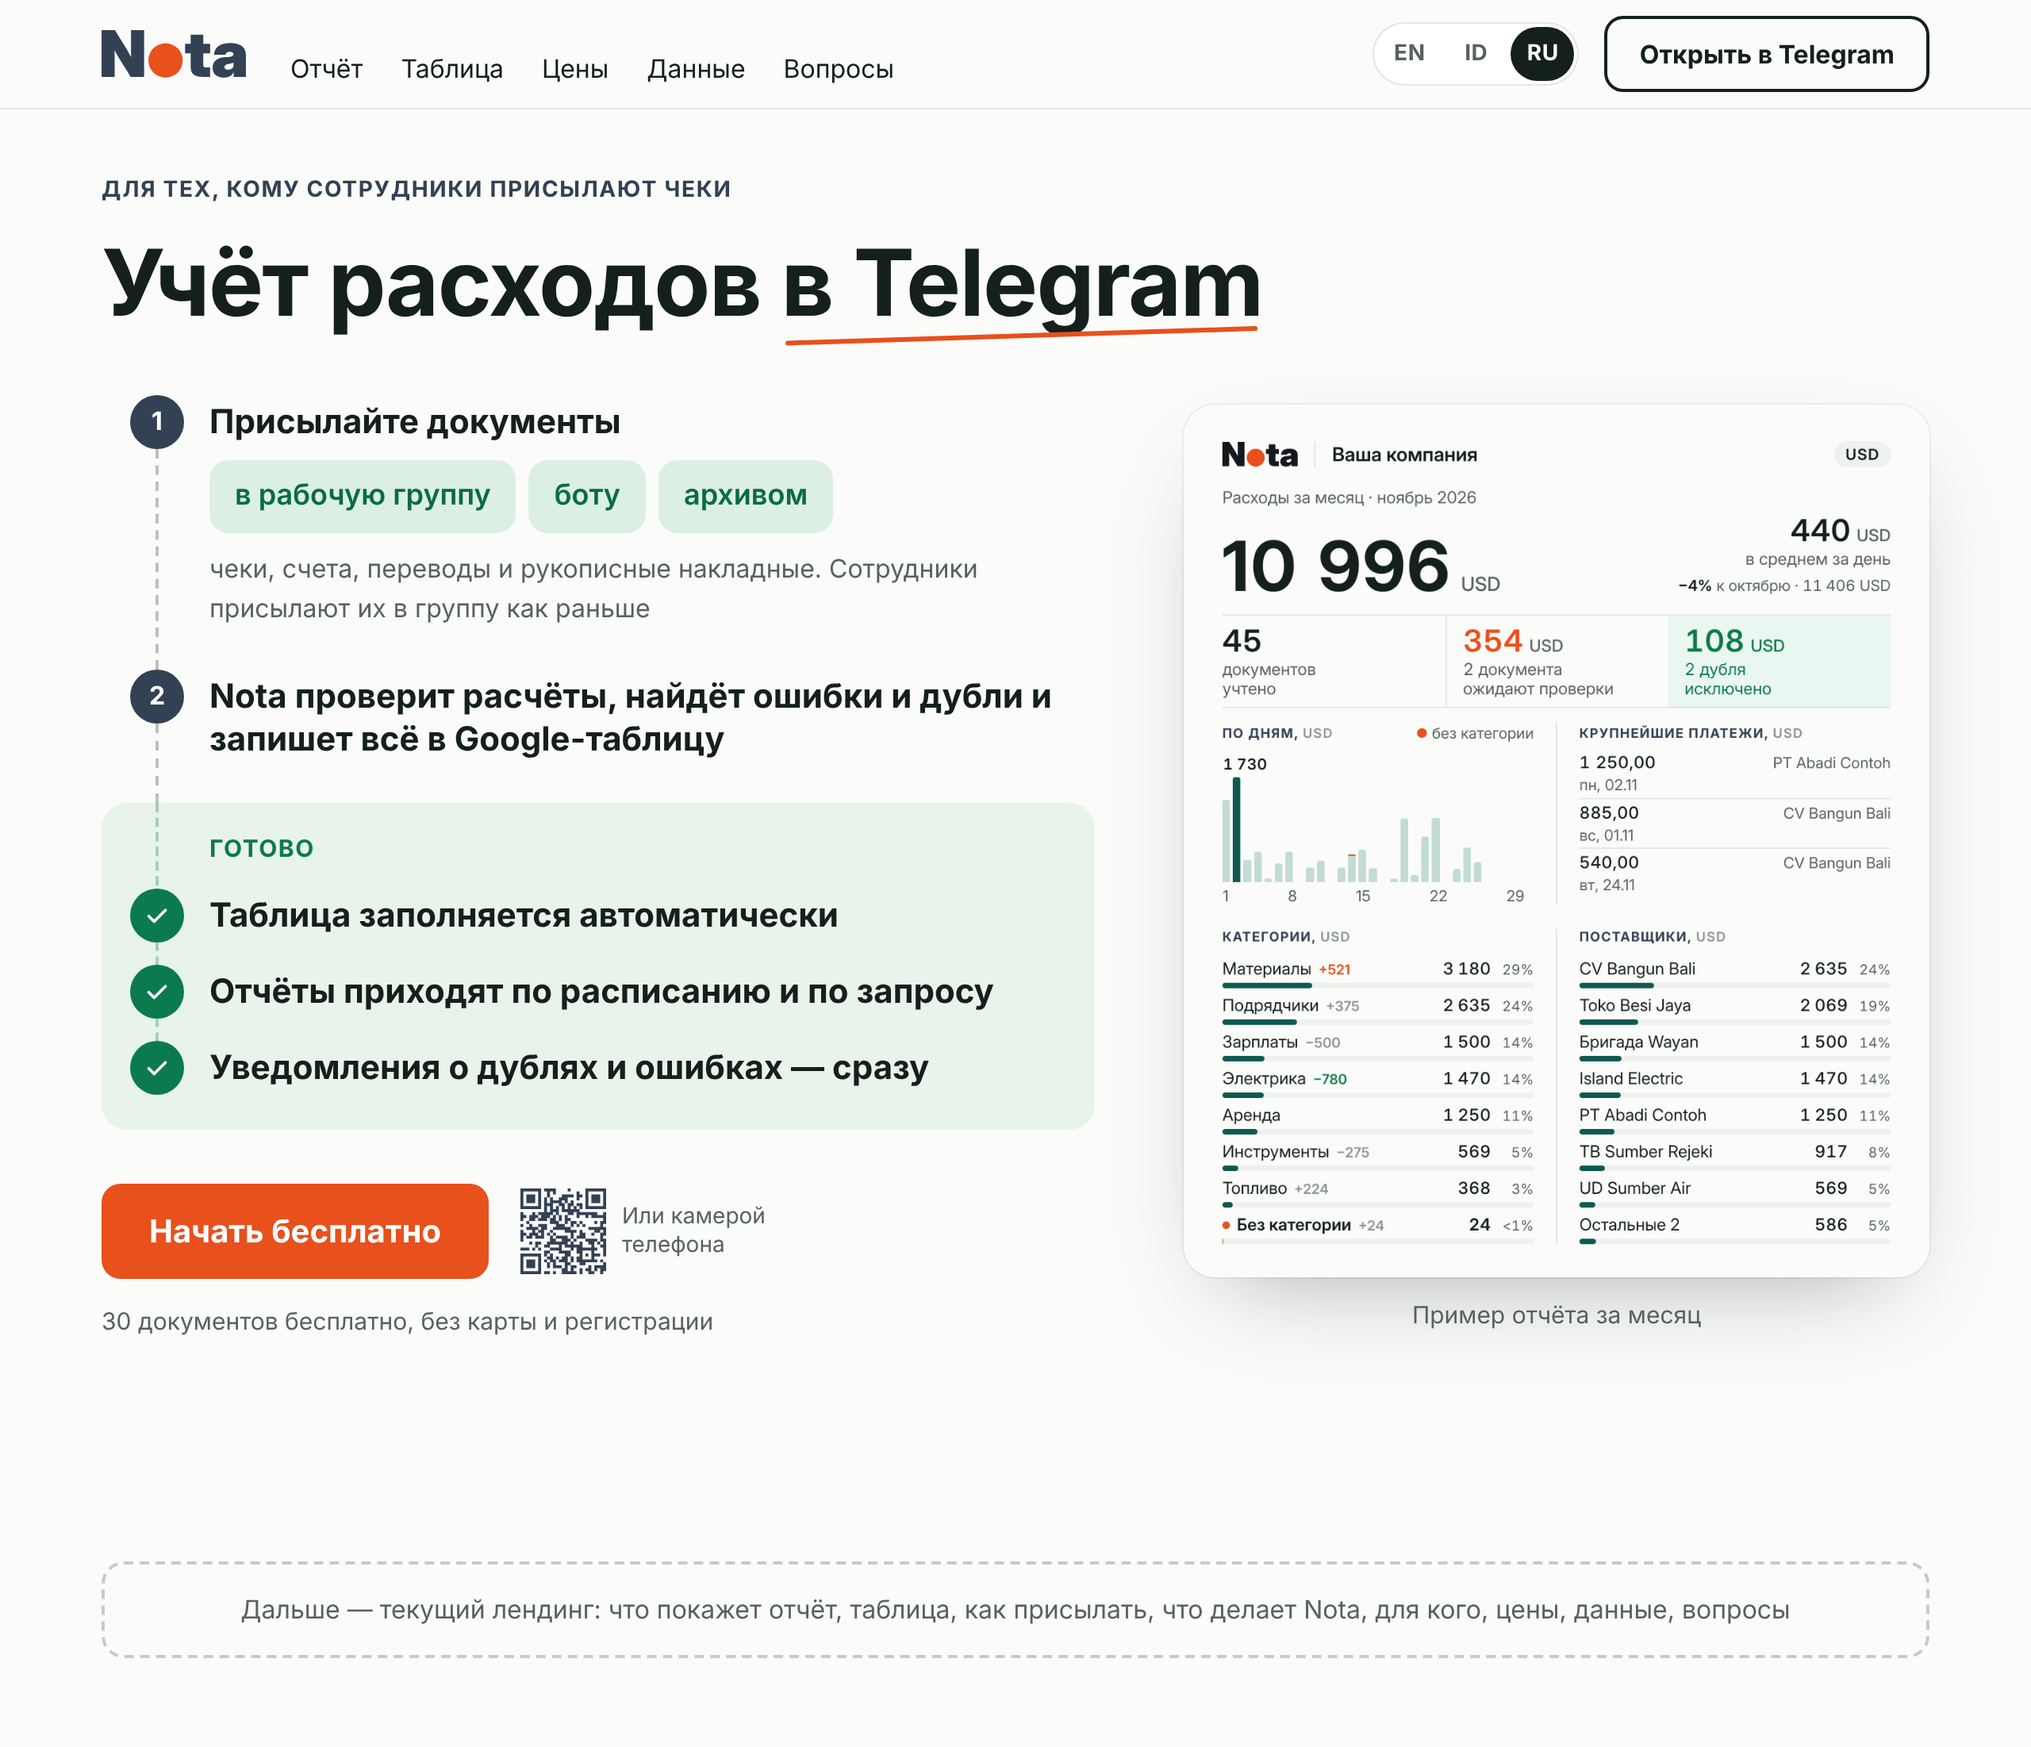
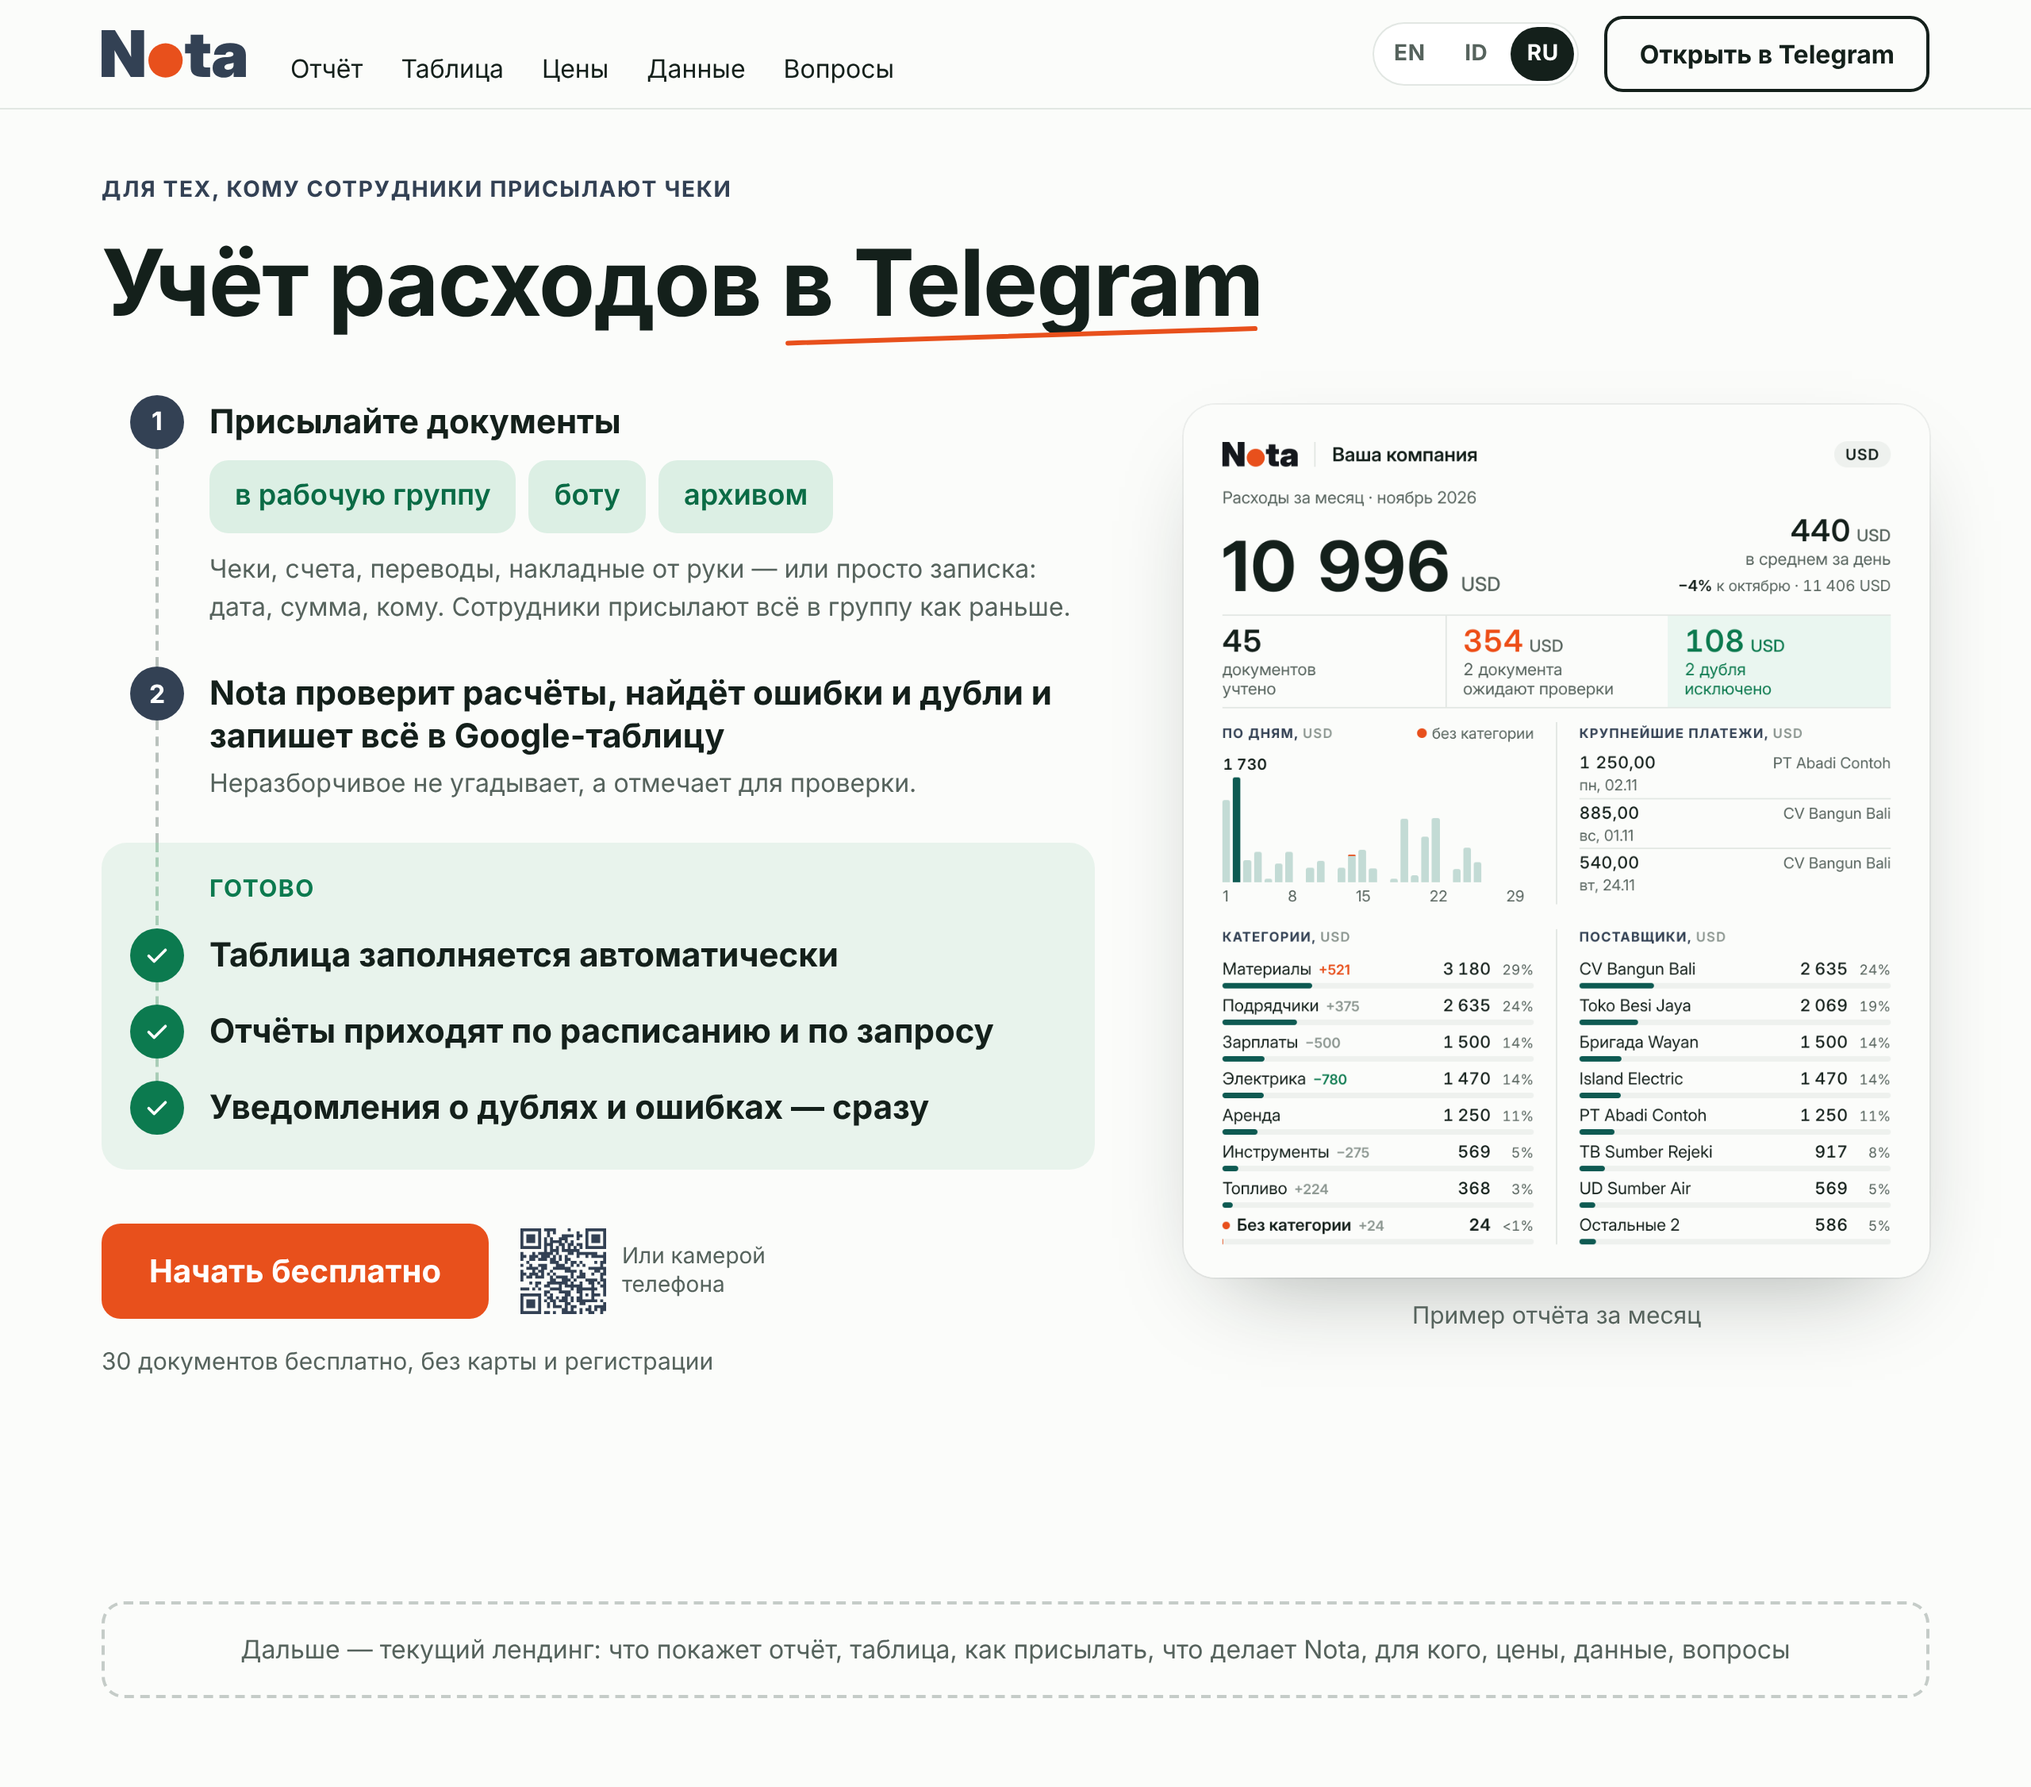
Sketch G: any note works without a receipt; unreadable documents flagged
Claude-Session: https://claude.ai/code/session_01L3HhR7LSGwJtypFbeUeh92

diff --git a/founder/landing-start-sketch/g.html b/founder/landing-start-sketch/g.html
@@ -5,7 +5,7 @@
 <h1 class="f-h1">Учёт расходов <span class="mk-u">в Telegram<svg class="mk-under" viewBox="0 0 200 16" preserveAspectRatio="none" aria-hidden="true"><path d="M3 13C50 11.5 120 8 197 4"/></svg></span></h1>
 <div class="mk-split mk-split--f">
 <div class="mk-left">
-<ol class="f-flow"><li><span class="e-n">1</span><div><b>Присылайте документы</b><span class="f-chips"><i>в рабочую группу</i><i>боту</i><i>архивом</i></span><span class="f-d g-sub">чеки, счета, переводы и рукописные накладные. Сотрудники присылают их в группу как раньше</span></div></li><li><span class="e-n">2</span><div><b>Nota проверит расчёты, найдёт ошибки и дубли и запишет всё в Google-таблицу</b></div></li></ol><div class="f-auto"><div class="f-auto-h">Готово</div><ol class="f-flow"><li><span class="e-n f-ok"><svg viewBox="0 0 24 24" width="18" height="18" aria-hidden="true" fill="none" stroke="currentColor" stroke-width="2.4" stroke-linecap="round" stroke-linejoin="round"><path d="M5 12.5l4.5 4.5L19 7.5"/></svg></span><div><b>Таблица заполняется автоматически</b></div></li><li><span class="e-n f-ok"><svg viewBox="0 0 24 24" width="18" height="18" aria-hidden="true" fill="none" stroke="currentColor" stroke-width="2.4" stroke-linecap="round" stroke-linejoin="round"><path d="M5 12.5l4.5 4.5L19 7.5"/></svg></span><div><b>Отчёты приходят по расписанию и по запросу</b></div></li><li><span class="e-n f-ok"><svg viewBox="0 0 24 24" width="18" height="18" aria-hidden="true" fill="none" stroke="currentColor" stroke-width="2.4" stroke-linecap="round" stroke-linejoin="round"><path d="M5 12.5l4.5 4.5L19 7.5"/></svg></span><div><b>Уведомления о дублях и ошибках — сразу</b></div></li></ol></div>
+<ol class="f-flow"><li><span class="e-n">1</span><div><b>Присылайте документы</b><span class="f-chips"><i>в рабочую группу</i><i>боту</i><i>архивом</i></span><span class="f-d g-sub">Чеки, счета, переводы, накладные от руки — или просто записка: дата, сумма, кому. Сотрудники присылают всё в группу как раньше.</span></div></li><li><span class="e-n">2</span><div><b>Nota проверит расчёты, найдёт ошибки и дубли и запишет всё в Google-таблицу</b><span class="f-d g-sub2">Неразборчивое не угадывает, а отмечает для проверки.</span></div></li></ol><div class="f-auto"><div class="f-auto-h">Готово</div><ol class="f-flow"><li><span class="e-n f-ok"><svg viewBox="0 0 24 24" width="18" height="18" aria-hidden="true" fill="none" stroke="currentColor" stroke-width="2.4" stroke-linecap="round" stroke-linejoin="round"><path d="M5 12.5l4.5 4.5L19 7.5"/></svg></span><div><b>Таблица заполняется автоматически</b></div></li><li><span class="e-n f-ok"><svg viewBox="0 0 24 24" width="18" height="18" aria-hidden="true" fill="none" stroke="currentColor" stroke-width="2.4" stroke-linecap="round" stroke-linejoin="round"><path d="M5 12.5l4.5 4.5L19 7.5"/></svg></span><div><b>Отчёты приходят по расписанию и по запросу</b></div></li><li><span class="e-n f-ok"><svg viewBox="0 0 24 24" width="18" height="18" aria-hidden="true" fill="none" stroke="currentColor" stroke-width="2.4" stroke-linecap="round" stroke-linejoin="round"><path d="M5 12.5l4.5 4.5L19 7.5"/></svg></span><div><b>Уведомления о дублях и ошибках — сразу</b></div></li></ol></div>
 <div class="cta-row cta-row--qr"><a class="btn" href="#">Начать бесплатно</a><div class="cta-qr"><img src="http://localhost:4321/screens/qr-bot-v10.svg" alt="" width="54" height="54"><span>Или камерой телефона</span></div></div>
 <p class="cta-line">30 документов бесплатно, без карты и регистрации</p>
 </div>

diff --git a/founder/landing-start-sketch/mk.css b/founder/landing-start-sketch/mk.css
@@ -234,3 +234,5 @@
 .mk-split--f .mk-report { margin-top: 6px; }
 .g-sub { margin-top: 10px; }
 .mk-g .f-flow b { line-height: 1.3; padding-top: 4px; }
+.g-sub2 { margin-top: 2px; }
+.g-sub { max-width: 590px; line-height: 1.5; }
